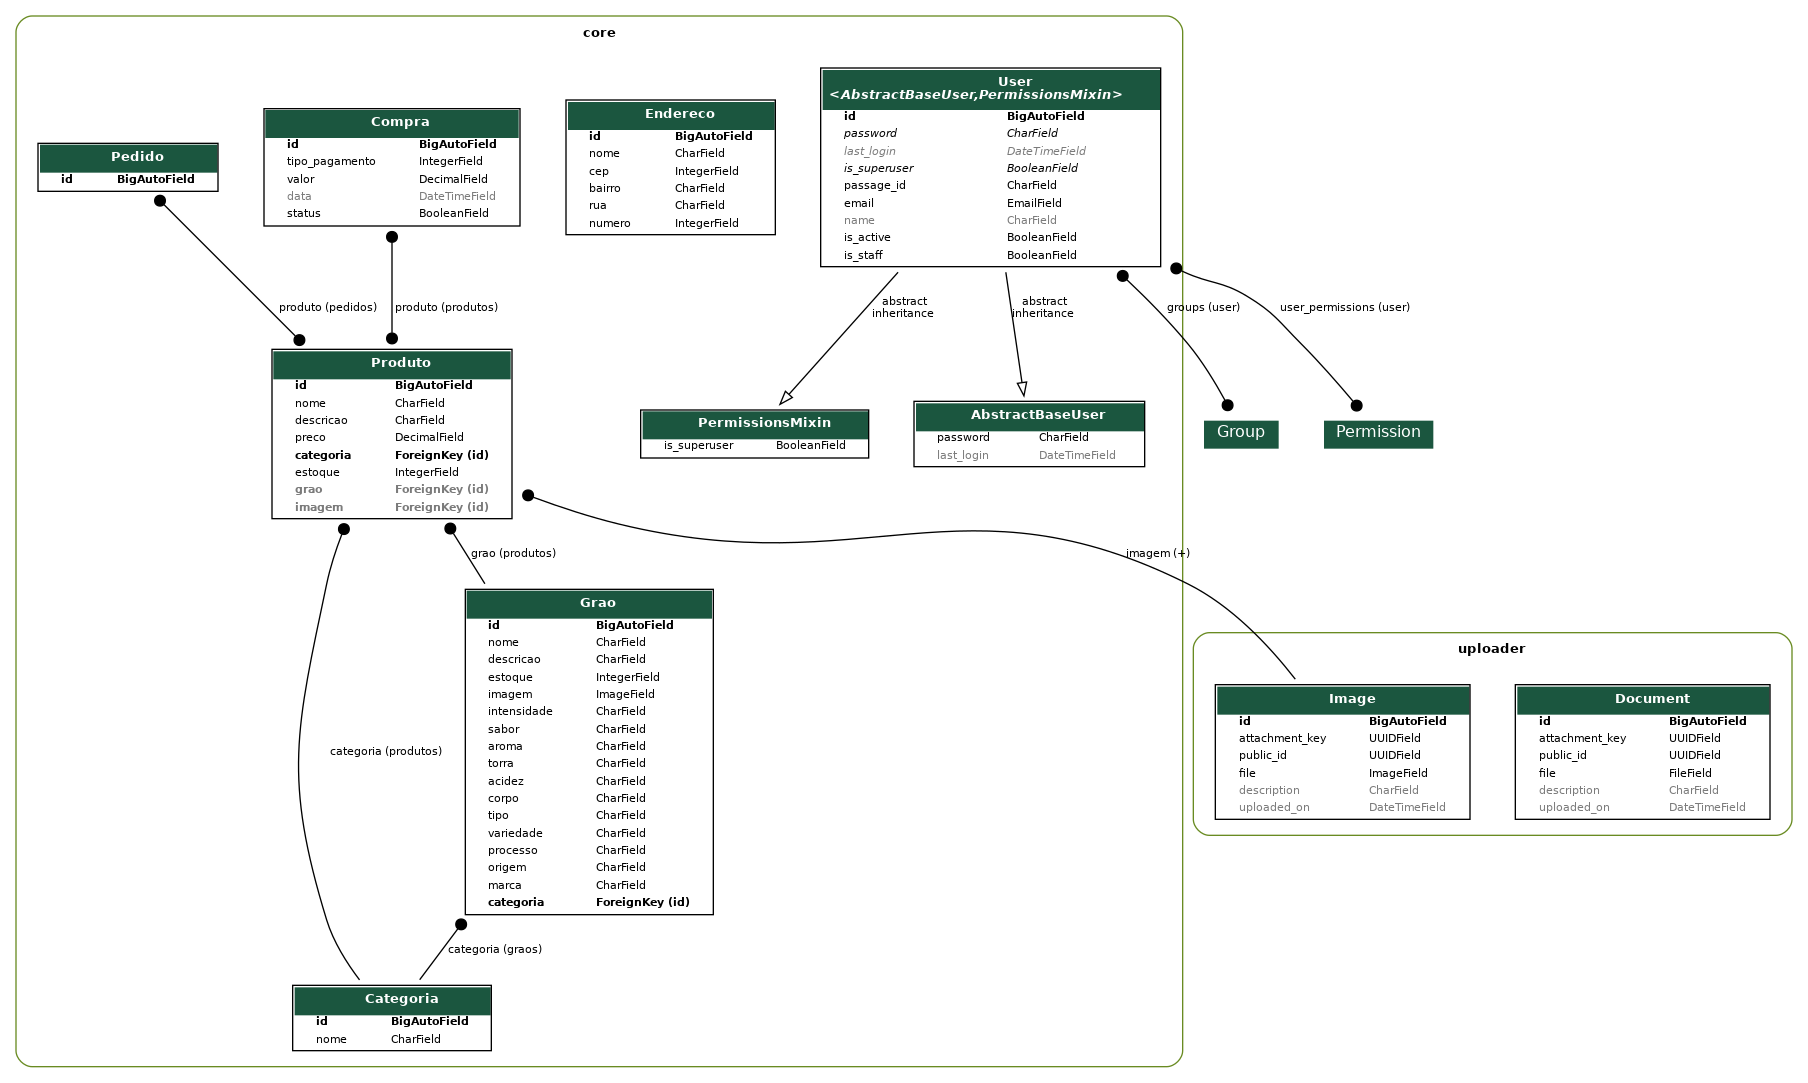
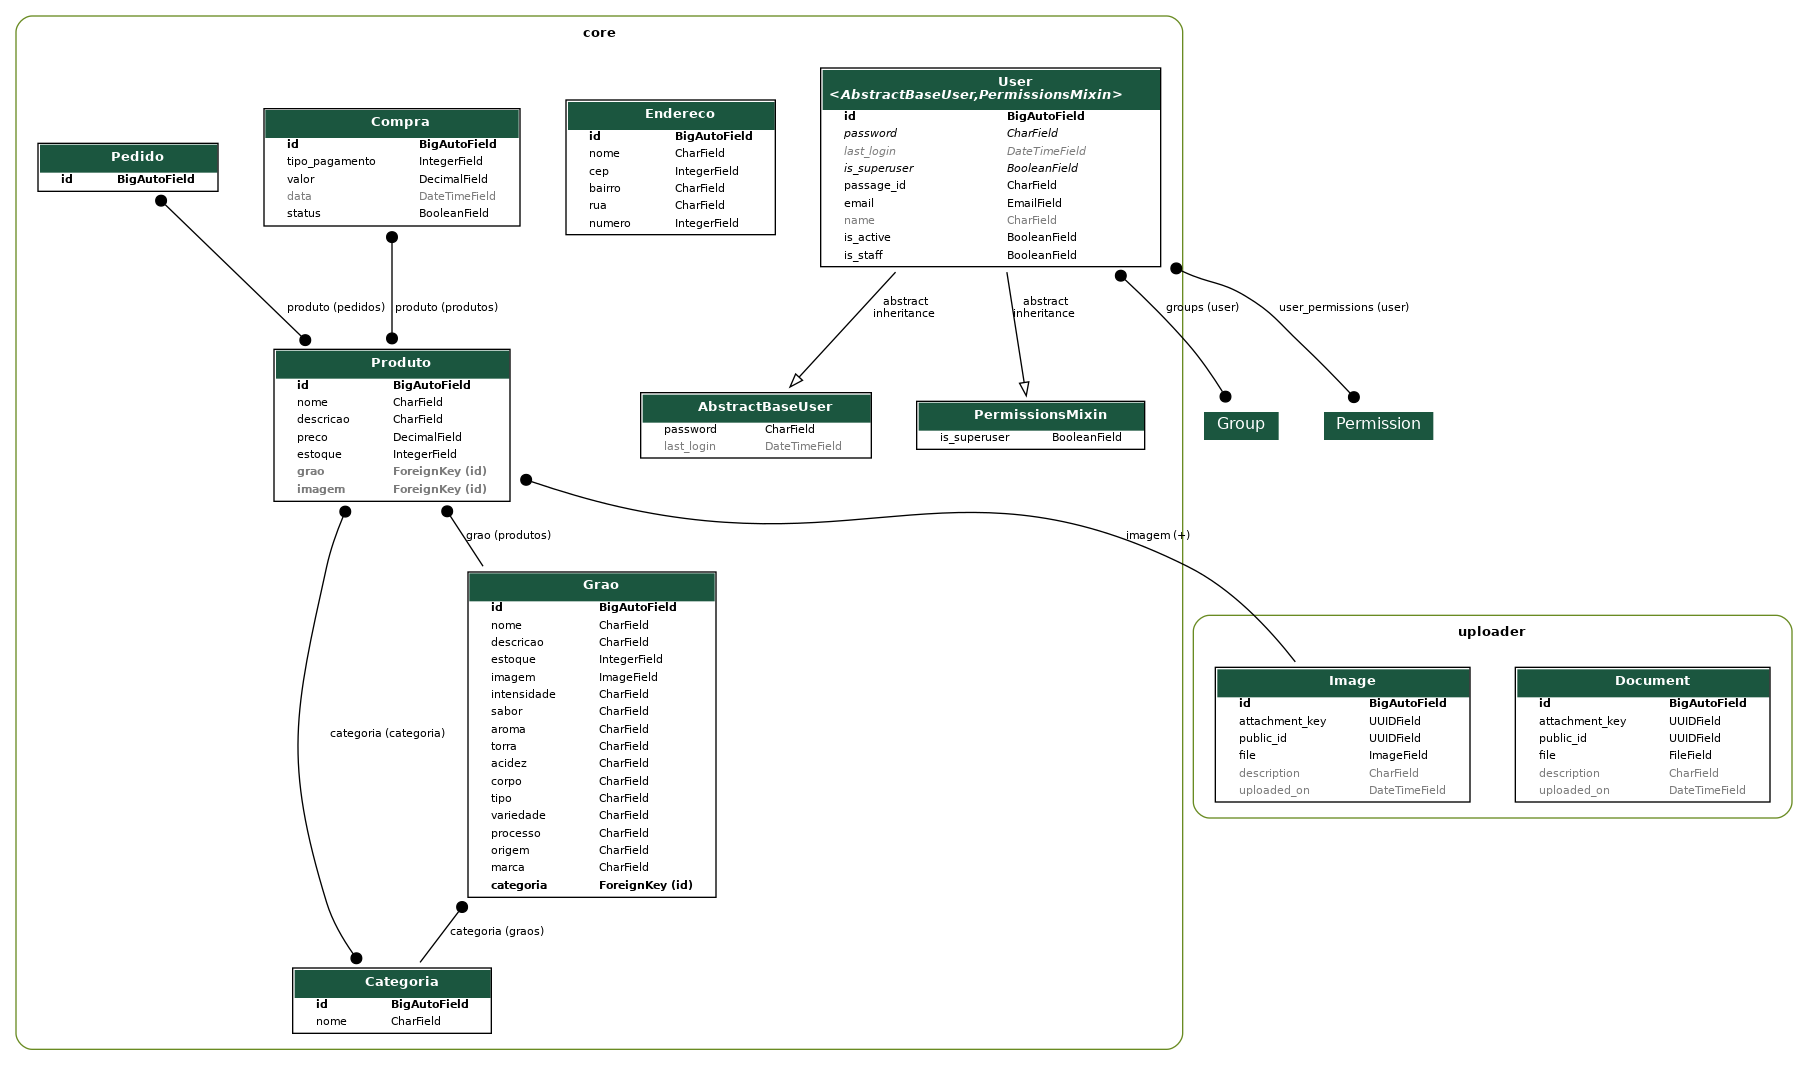
.

diff --git a/core/migrations/0016_remove_produto_categoria_produto_categoria.py b/core/migrations/0016_remove_produto_categoria_produto_categoria.py
@@ -1,0 +1,22 @@
+# Generated by Django 5.2.1 on 2025-09-02 16:57
+
+from django.db import migrations, models
+
+
+class Migration(migrations.Migration):
+
+    dependencies = [
+        ('core', '0015_produto_imagem'),
+    ]
+
+    operations = [
+        migrations.RemoveField(
+            model_name='produto',
+            name='categoria',
+        ),
+        migrations.AddField(
+            model_name='produto',
+            name='categoria',
+            field=models.ManyToManyField(blank=True, related_name='categoria', to='core.categoria'),
+        ),
+    ]
